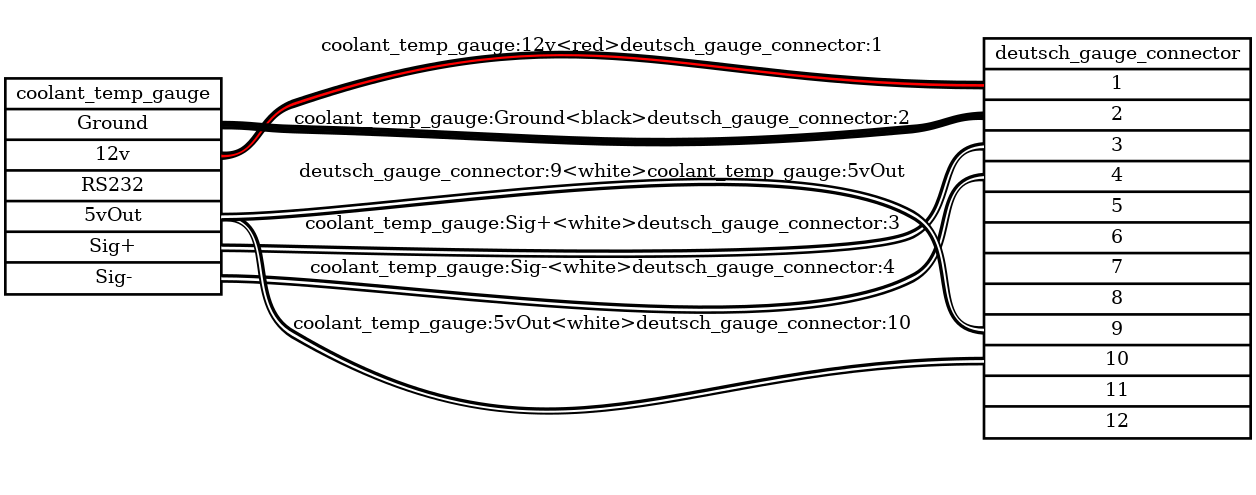
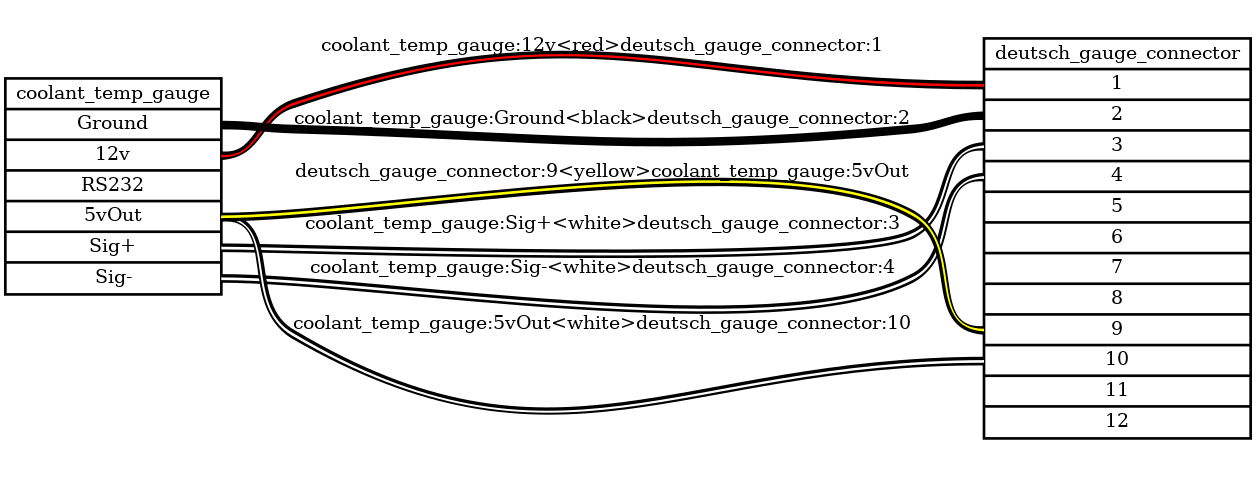
Leverage color from map for the coolant temp gauage

diff --git a/corrado_wiring.py b/corrado_wiring.py
@@ -763,11 +763,11 @@ for i, aem_sensor in enumerate(AEM_SENSORS):
       DCE.GetFreePin(),
       (aem_sensor, f'Sig{sign}'),
     ), 'white')  # TODO: Decide on wire color.
-AddPath((
+AddPathWithMap((
   ('link_ecu_a', 'Temp1'),
   DCG.GetFreePin(),
   ('coolant_temp_gauge', '5vOut'),
-), 'white') # TODO: Decide on wire color.
+))
 
 # Traqmate
 AddPath((
